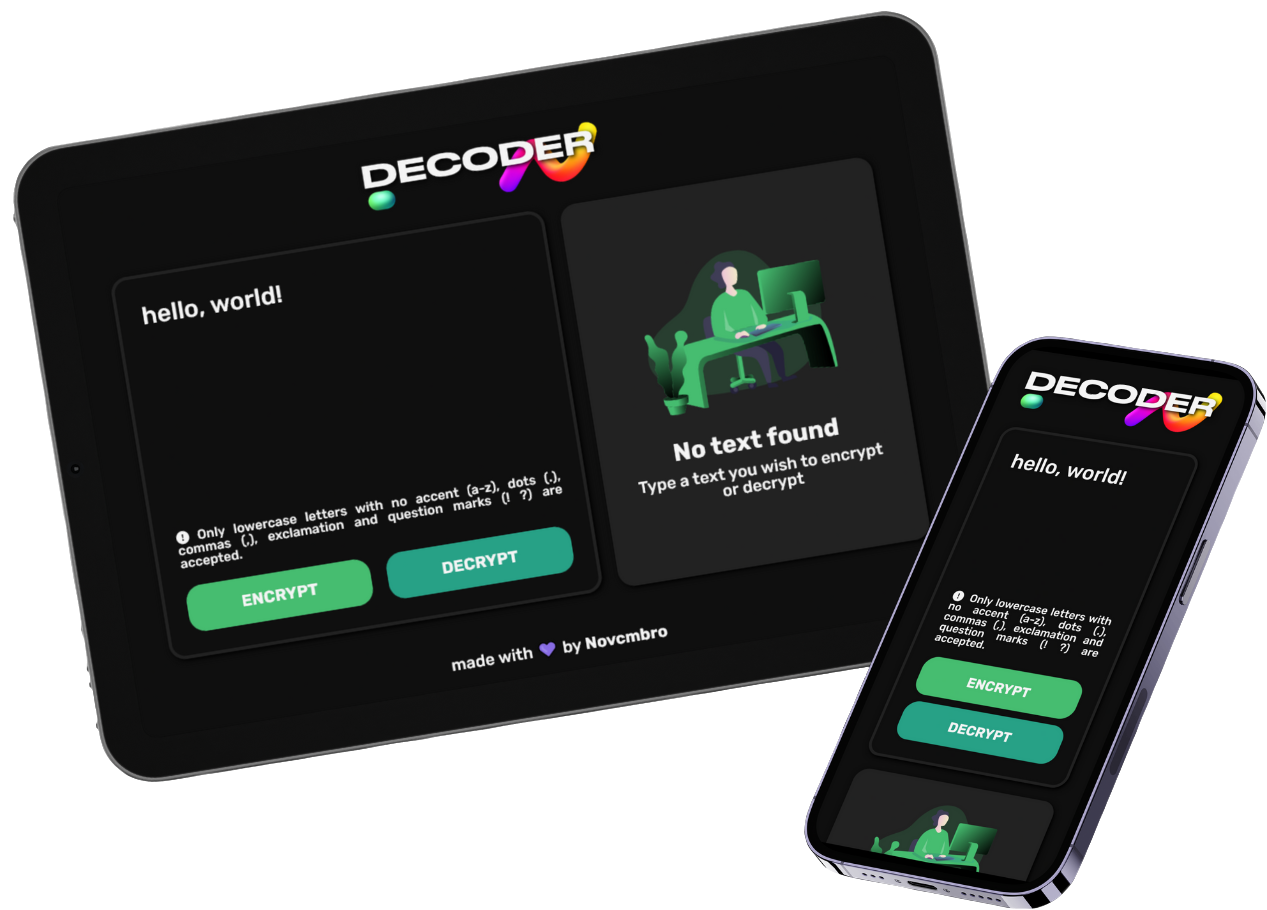
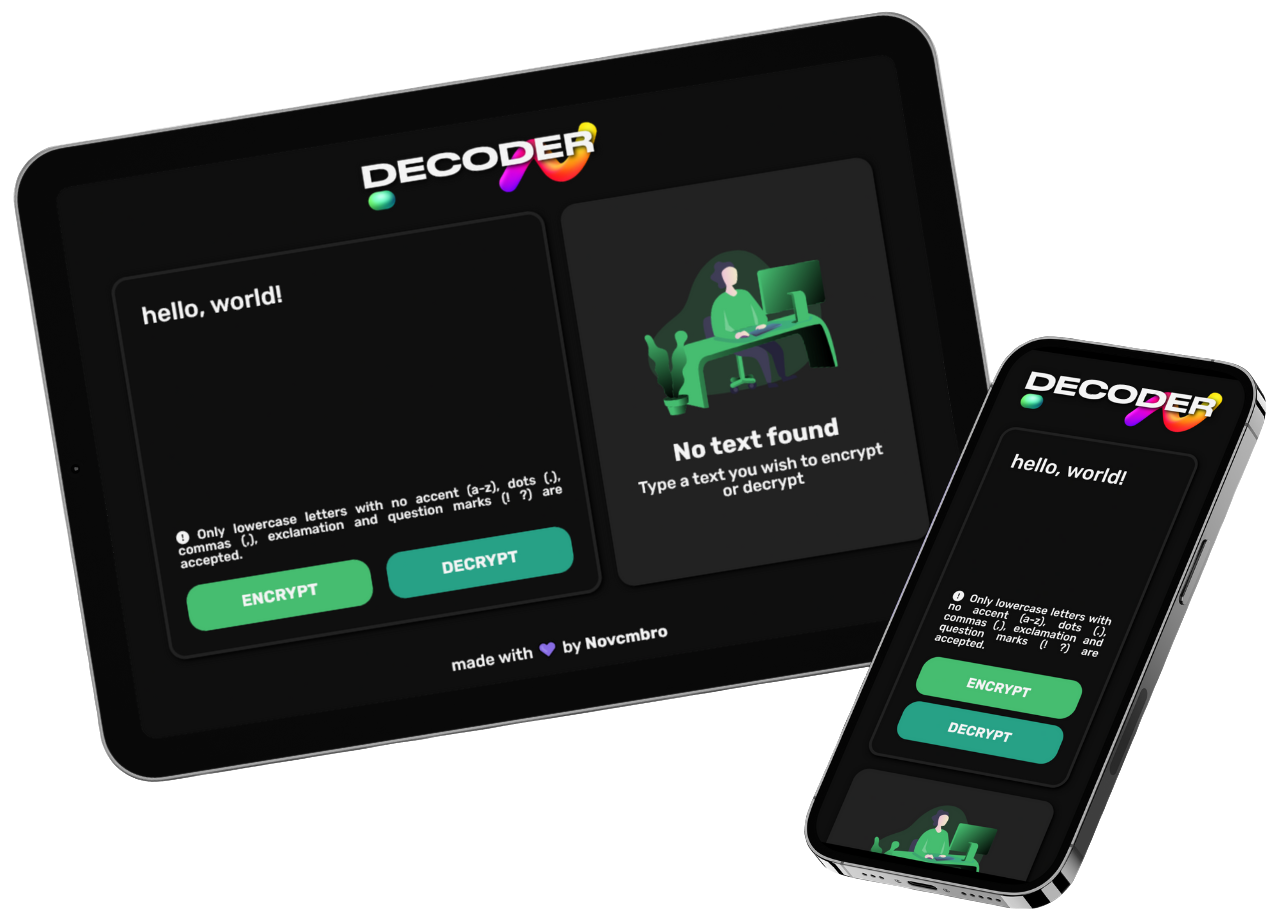
replaced decoder image, fixed project section animation and projects grid

diff --git a/src/css/animation.css b/src/css/animation.css
@@ -36,13 +36,6 @@
   -webkit-animation-duration: var(--animation-duration);
 }
 
-.animation .project-info {
-  animation-name: fade-in;
-  animation-duration: var(--animation-duration);
-  -webkit-animation-name: fade-in;
-  -webkit-animation-duration: var(--animation-duration);
-}
-
 .animation .thank-you-image {
   animation-name: spin;
   animation-duration: var(--animation-duration);
@@ -81,7 +74,7 @@
 }
 
 @keyframes slide-up-to-down {
-  from { top: -100%; }
+  from { top: 0; }
   to { top: 50%; }
 }
 

diff --git a/src/css/projects.css b/src/css/projects.css
@@ -1,6 +1,6 @@
 .projects-list {
   display: grid;
-  grid-template-columns: repeat(auto-fit, minmax(280px, 1fr));
+  grid-template-columns: repeat(auto-fit, minmax(220px, 1fr));
   gap: var(--spacing-md);
 }
 
@@ -14,8 +14,8 @@
 }
 
 .project-card-name {
-  line-height: 1.75rem;
-  font-size: var(--font-md);
+  line-height: 2rem;
+  font-size: var(--font-lg);
   font-weight: var(--font-semibold);
   text-transform: uppercase;
 }
